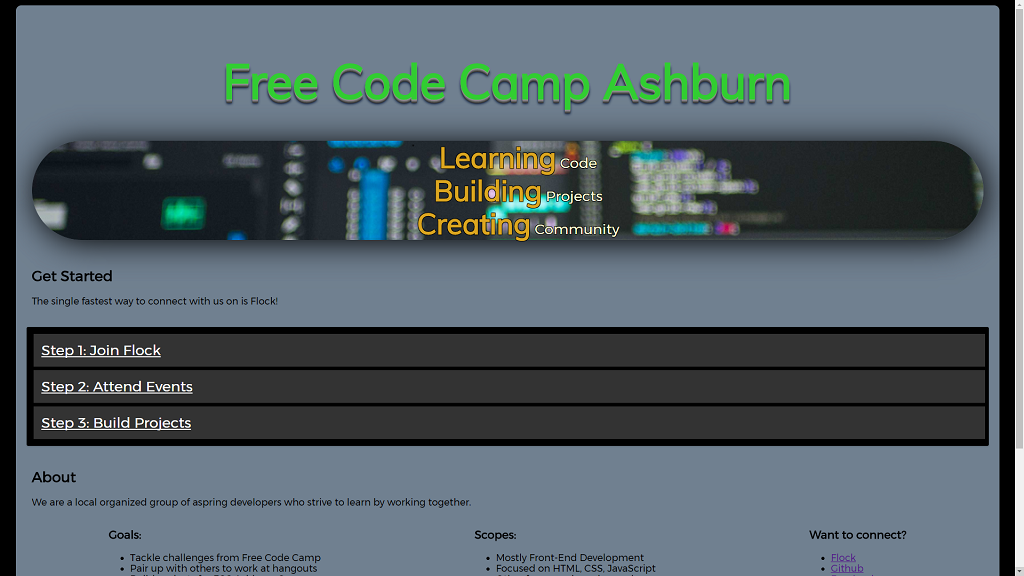
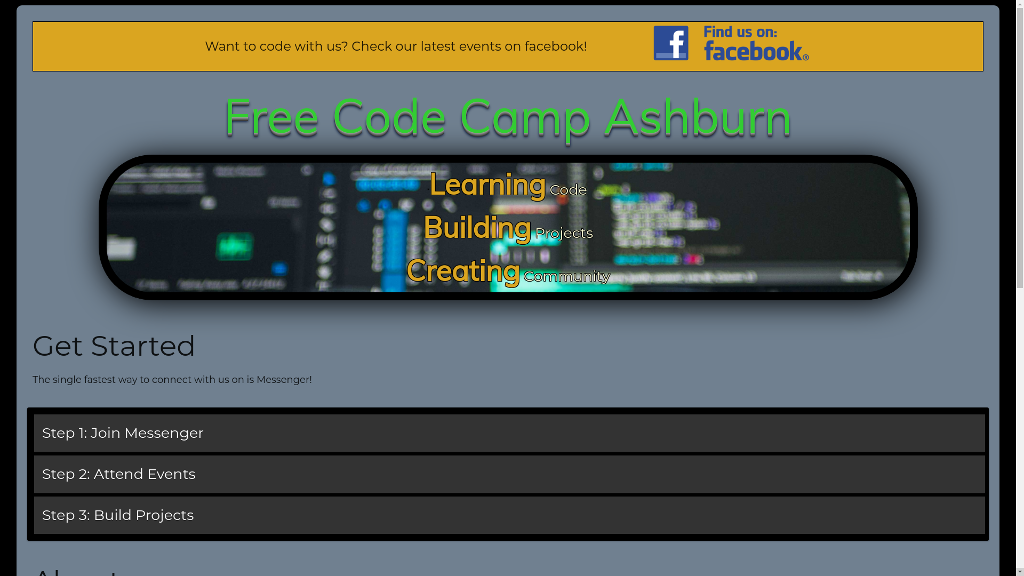
Update site for messenger

diff --git a/index.html b/index.html
@@ -10,6 +10,8 @@
         <script src="https://use.fontawesome.com/2873f23336.js"></script>  
         <!-- jQuery -->
         <script	src="https://code.jquery.com/jquery-3.2.1.min.js" integrity="sha256-hwg4gsxgFZhOsEEamdOYGBf13FyQuiTwlAQgxVSNgt4=" crossorigin="anonymous"></script>
+        <!-- Materialize -->
+        <link rel="stylesheet" href="https://cdnjs.cloudflare.com/ajax/libs/materialize/0.100.2/css/materialize.min.css">
     </head>
     
     <body>
@@ -31,35 +33,37 @@
             
             <section id="start">
                 <h2>Get Started</h2>
-                <p>The single fastest way to connect with us on is Flock!</p>
+                <p>The single fastest way to connect with us on is Messenger!</p>
                 </ul>
             </section> <!--end start-->
             
             <section class="accordion">
 
                 <div class="accordion-section">
-                    <a class="accordion-section-title" href="#accordion-1">Step 1: Join Flock</a>
+                    <a class="accordion-section-title" href="#accordion-1">Step 1: Join Messenger</a>
                         
                     <div id="accordion-1" class="accordion-section-content">
-                        <div id="flock">
-                            <div id="flock-info">
-                                <h4><a href="https://freecodecampashburn.flock.com/">Flock</a> is a slack-alternative and the premier medium where FCCA Members keep in touch!</h4>
-                                <p>Address: https://<strong>freecodecampashburn</strong>.flock.com/</p>
-                                <p>Channels:</p>
+                        <div id="messenger">
+                            <div id="messenger-info">
+                                <h4><b>How to join:</b></h4>
+                                <p>Messenger is easy to access and the primary medium where FCCA members keep in touch!</p>
+                                <p>1. Join our <a href="https://www.facebook.com/groups/free.code.camp.ashburn/" target="_blank">Facebook Group</a></p>
+                                <p>2. After you have joined the group, ask to join the group by sending a message to <a href="https://www.facebook.com/timh1203">Tim</a> or <a href="https://www.facebook.com/jsierra.garcia">Juan</a></p>
+                                <p>3. Drop us a hello to us after you've been added (we're really friendly)</p>
+                                
+
+                                <h4><b>Topics we talk about:</b></h4>
                                 <ul>
-                                    <li>Announcements - Important channel-wide announcements from the admins!</li>
-                                    <li>General - Make new friends by chatting about coding, events, and related topics!</li>
-                                    <li>Resources & Local Events - Share your best finds for great resources and cool events!</li>
-                                    <li>Daily-Log - Daily coding is a powerful habit. Strengthen this habit by typing 1 sentence about what you coded today!</li>
-                                    <li>Project Team - Where the FCCA team communicates for projects</li>
+                                    <li>Everything related to coding</li>
+                                    <li>Great resources and courses we find</li>
+                                    <li>Upcoming local events in the area</li>
                                 </ul>
-                                <a id="join" href="https://freecodecampashburn.flock.com/" target="_blank"><button>Join Flock</button></a>                            
                             </div>
-    
-                            <div id="flock-picture">
-                                <img src="assets/img/flock-channel-1024x576.png" alt="Our Flock Channel">
-                            </div> <!--end #flock-picture-->    
-                        </div> <!--end #flock-->
+                            
+                            <div id="messenger-picture">
+                                <img src="assets/img/messenger-channel-1024x736.png" alt="Our Messenger Channel">
+                            </div> <!--end #messenger-picture-->    
+                        </div> <!--end #messenger-->
                     </div> <!--end .accordion-section-content-->
                 </div> <!--end .accordion-section-->
 
@@ -72,18 +76,19 @@
                                     <h4>Starbucks @ One Loundoun<br>44735 Thorndike St, Ashburn, VA 20147</h4>
                                     <p>Come hang out with us for code, coffee, and socializing!</p>
                                     <p>Stay for as little or as long as you like!</p>
+                                    <p>New friends welcomed!</p>
                                     <p>Where will you be?</p>
                                     <ul>
                                         <li>There's tons of parking behind starbucks</li>
-                                        <li>Look for the freeCodeCamp Ashburn sign</li>
-                                        <li>Meeting schedule: Friday 5pm, Saturday 12pm, or Sunday 12pm</li>
-                                        <li>Subject to change according to member's schedule</li>
-                                        <li>Check on Flock for the most updated information</li>
+                                        <li>We're packed along the long table</li>
+                                        <li>Meeting schedule: Saturday 12pm or Sunday 12pm</li>
+                                        <li>Schedule subject to change according to member's schedule</li>
+                                        <li>Message us on Messenger if you get lost!</li>
                                     </ul>
                                     <p>What do I bring?</p>
                                     <li>Have a laptop with an IDE installed</li>
-                                    <li>A coding language you want to work on</li>
-                                    <li>A friendly, collaborative spirit</li>
+                                    <li>Whatever you're working on</li>
+                                    <li>A friendly spirit</li>
                                 </div>
                                     
                                 <div id="events-picture">
@@ -100,9 +105,9 @@
                             <div id="projects">
                                 <div id="projects-info">
                                     <h4>Want to contribute to projects for our group or start something?</h4>
-                                    <p>Talk with Tim or Juan on Flock or at events!</p>
-                                    <p>Recommended Tools: Git, Github, Gyazo, Flock.</p>
-                                    <p>Here are planned ideas for the future:</p>
+                                    <p>Talk with Tim or Juan on messenger or at events!</p>
+                                    <p>Recommended Tools: Git, Github, Gyazo, Messenger</p>
+                                    <p><b>Here are planned ideas for the future:</b></p>
                                     <ul>
                                         <li>Convert title on website to FCC font</li>
                                         <li>Change color scheme of whole website to match FCC scheme</li>
@@ -130,8 +135,8 @@
             <section id="about">
                 <h2>About</h2>
                 <p>We are a local, organized group of aspiring developers who strive to learn by working together.</p>
-                <p>We code together at Starbucks on the weekend and go to web development events. We communicate through an app
-                    called Flock.</p>
+                <p>We code together at Starbucks on the weekend and go to web development events. We communicate through a Facebook app
+                    called Messenger.</p>
 
                 <div id="about-section">
                     <div id="goals">
@@ -155,7 +160,6 @@
                     <div id="contact">
                         <h3>Want to connect?</h3>
                         <ul>
-                            <li><a href="https://freecodecampashburn.flock.com/">Flock</a></li>
                             <li><a href="https://github.com/free-code-camp-ashburn">Github</a></li>
                             <li><a href="https://www.facebook.com/groups/free.code.camp.ashburn/">Facebook</a></li>
                         </ul>
@@ -170,7 +174,7 @@
                 <div class="member__wrappper">
                     <article class="member__card">
                         <header class="member__header">
-                            <h2>Timothy Hoang</h2>
+                            <h4>Timothy Hoang</h4>
                         </header>
                         <div class="member__bio">
                             <ul>
@@ -184,7 +188,7 @@
                 
                     <article class="member__card">
                         <header class="member__header">
-                            <h2>Juan Sierra</h2>
+                            <h4>Juan Sierra</h4>
                         </header>
                         <div class="member__bio">
                             <ul>
@@ -198,7 +202,7 @@
 
                     <article class="member__card">
                         <header class="member__header">
-                            <h2>Joseph Arias</h2>
+                            <h4>Joseph Arias</h4>
                         </header>
                         <div class="member__bio">
                             <ul>
@@ -224,8 +228,11 @@
                     </li>
                 </ul>
             </section> <!--end footer-->
+
         </div> <!--end #main-->          
     <script src="assets/js/script.js"></script>
+    <!-- Materialize -->
+    <script src="https://cdnjs.cloudflare.com/ajax/libs/materialize/0.100.2/js/materialize.min.js"></script>
 </body> <!--end body-->
 
 </html> <!--end html-->

diff --git a/assets/css/style.css b/assets/css/style.css
@@ -175,7 +175,7 @@ template {
 }
 
 * {
-  box-sizing: boder-box;
+  box-sizing: border-box;
 }
 
 html,
@@ -238,7 +238,7 @@ body {
   color: lightgoldenrodyellow;
   font-size: 1.5em;
   text-align: center;
-  list-style-type: none;
+  list-style: none;
   text-shadow: -1px -1px 0 #000, 1px -1px 0 #000, -1px 1px 0 #000,
     1px 1px 0 #000;
 }
@@ -305,16 +305,16 @@ button {
   display: none;
 }
 
-/* Flock */
+/* Messenger */
 #accordion-1 {
   background: lightgreen;
 }
-#flock {
+#messenger {
   display: flex;
   justify-content: space-around;
   align-items: center;
 }
-#flock > * {
+#messenger > * {
   margin: 10px;
   padding: 10px;
 }
